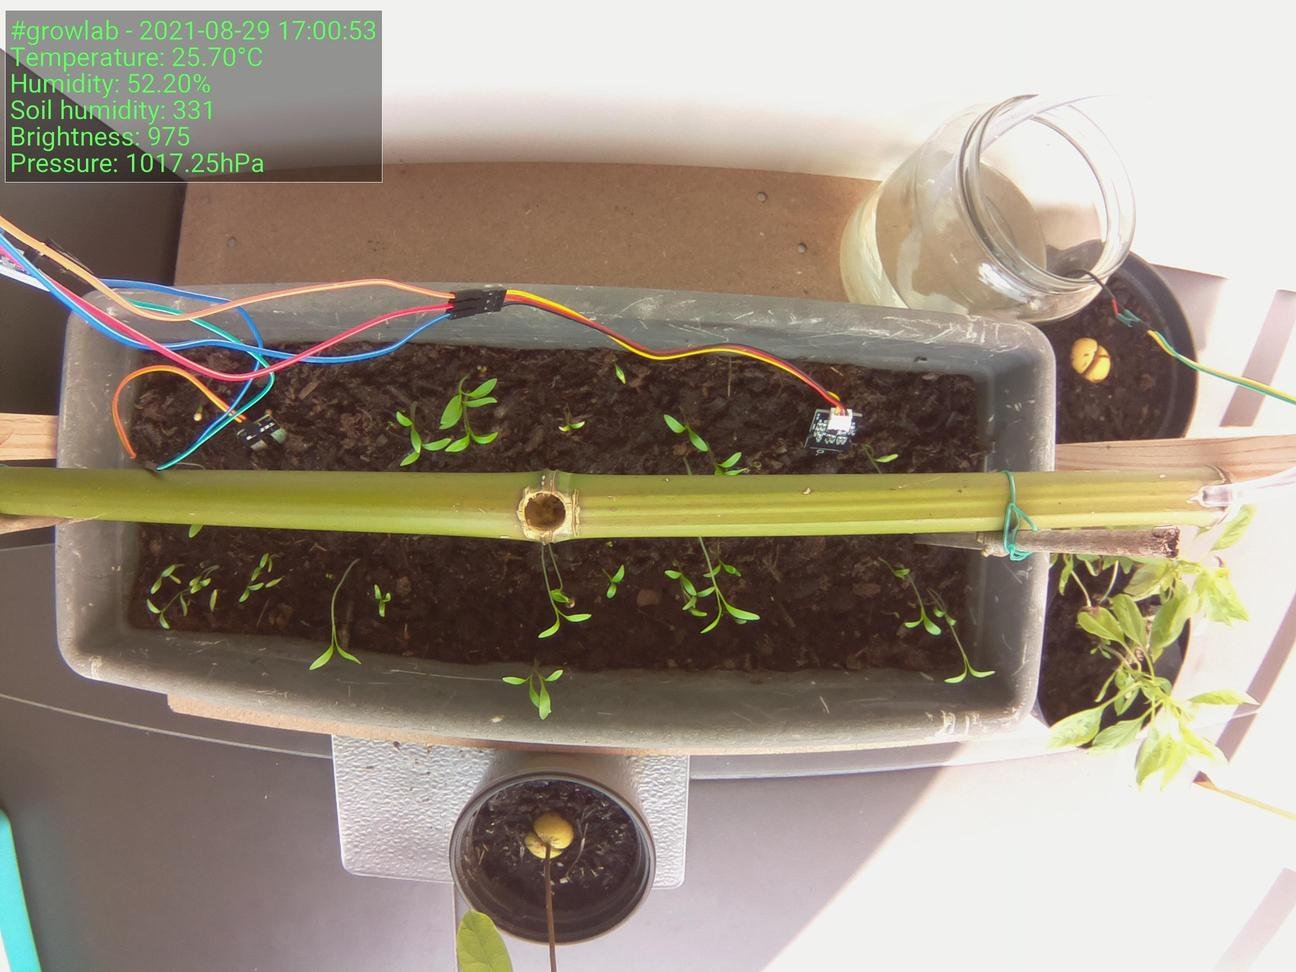
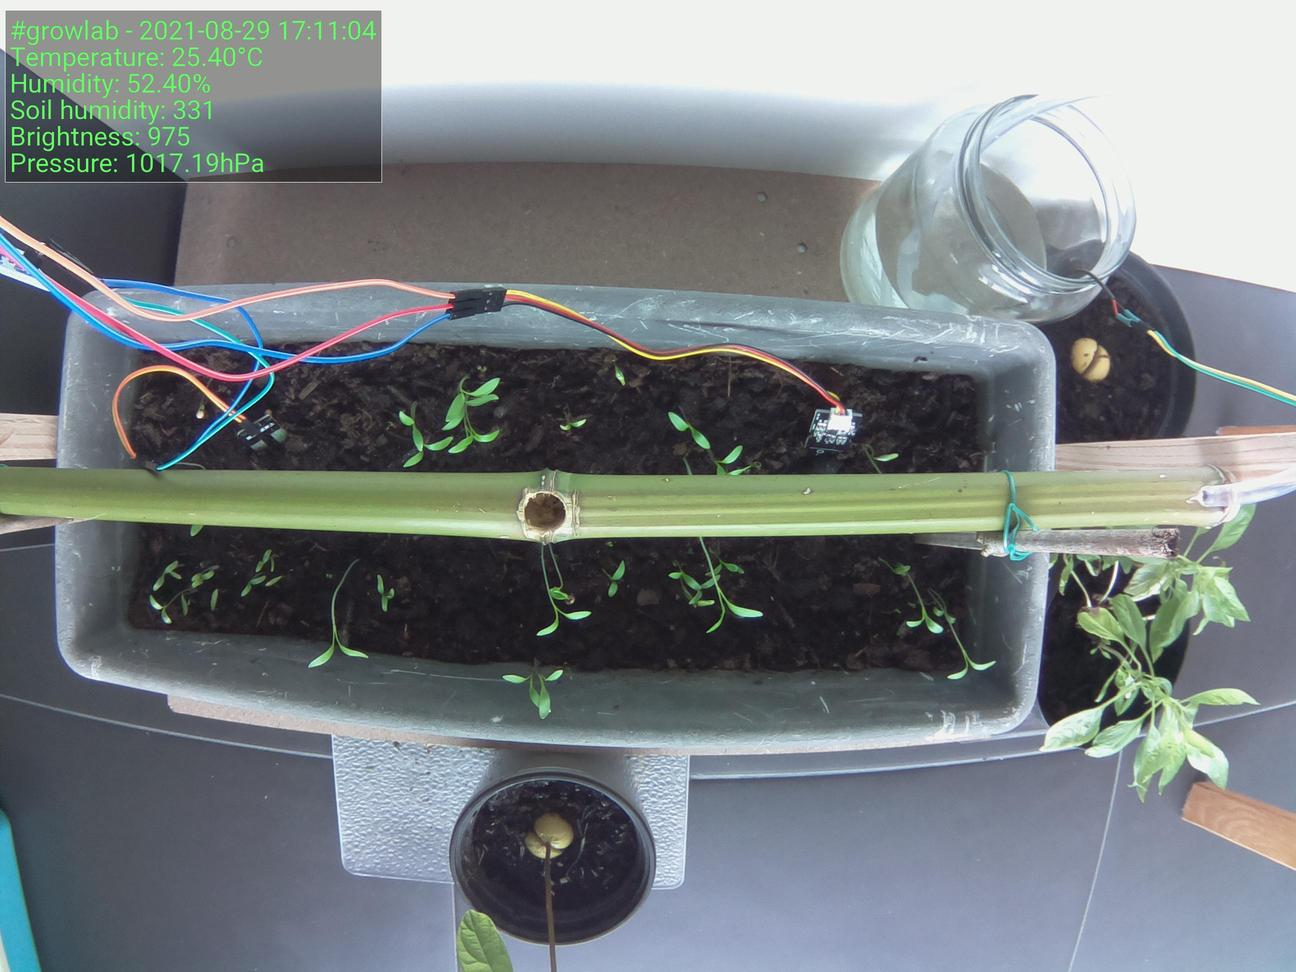
:bento: Update preview

diff --git a/index.html b/index.html
@@ -39,15 +39,15 @@
                     <tbody>
                         <tr>
                             <td>Time</td>
-                            <td>2021-08-29 17:00:53</td>
+                            <td>2021-08-29 17:11:04</td>
                         </tr>
                         <tr>
                             <td>Temperature</td>
-                            <td>25.70°C</td>
+                            <td>25.40°C</td>
                         </tr>
                         <tr>
                             <td>Humidity</td>
-                            <td>52.20%</td>
+                            <td>52.40%</td>
                         </tr>
                     </tbody>
                 </table>
@@ -55,7 +55,7 @@
 
                 <h5>Latest image</h5>
 		<div style="width: 85%;">
-	                <img class="figure-img img-fluid rounded" src="./preview.jpg?uid=1630249260.3444521">
+	                <img class="figure-img img-fluid rounded" src="./preview.jpg?uid=1630249871.6328013">
 		</div>
             </div>
         </div>
